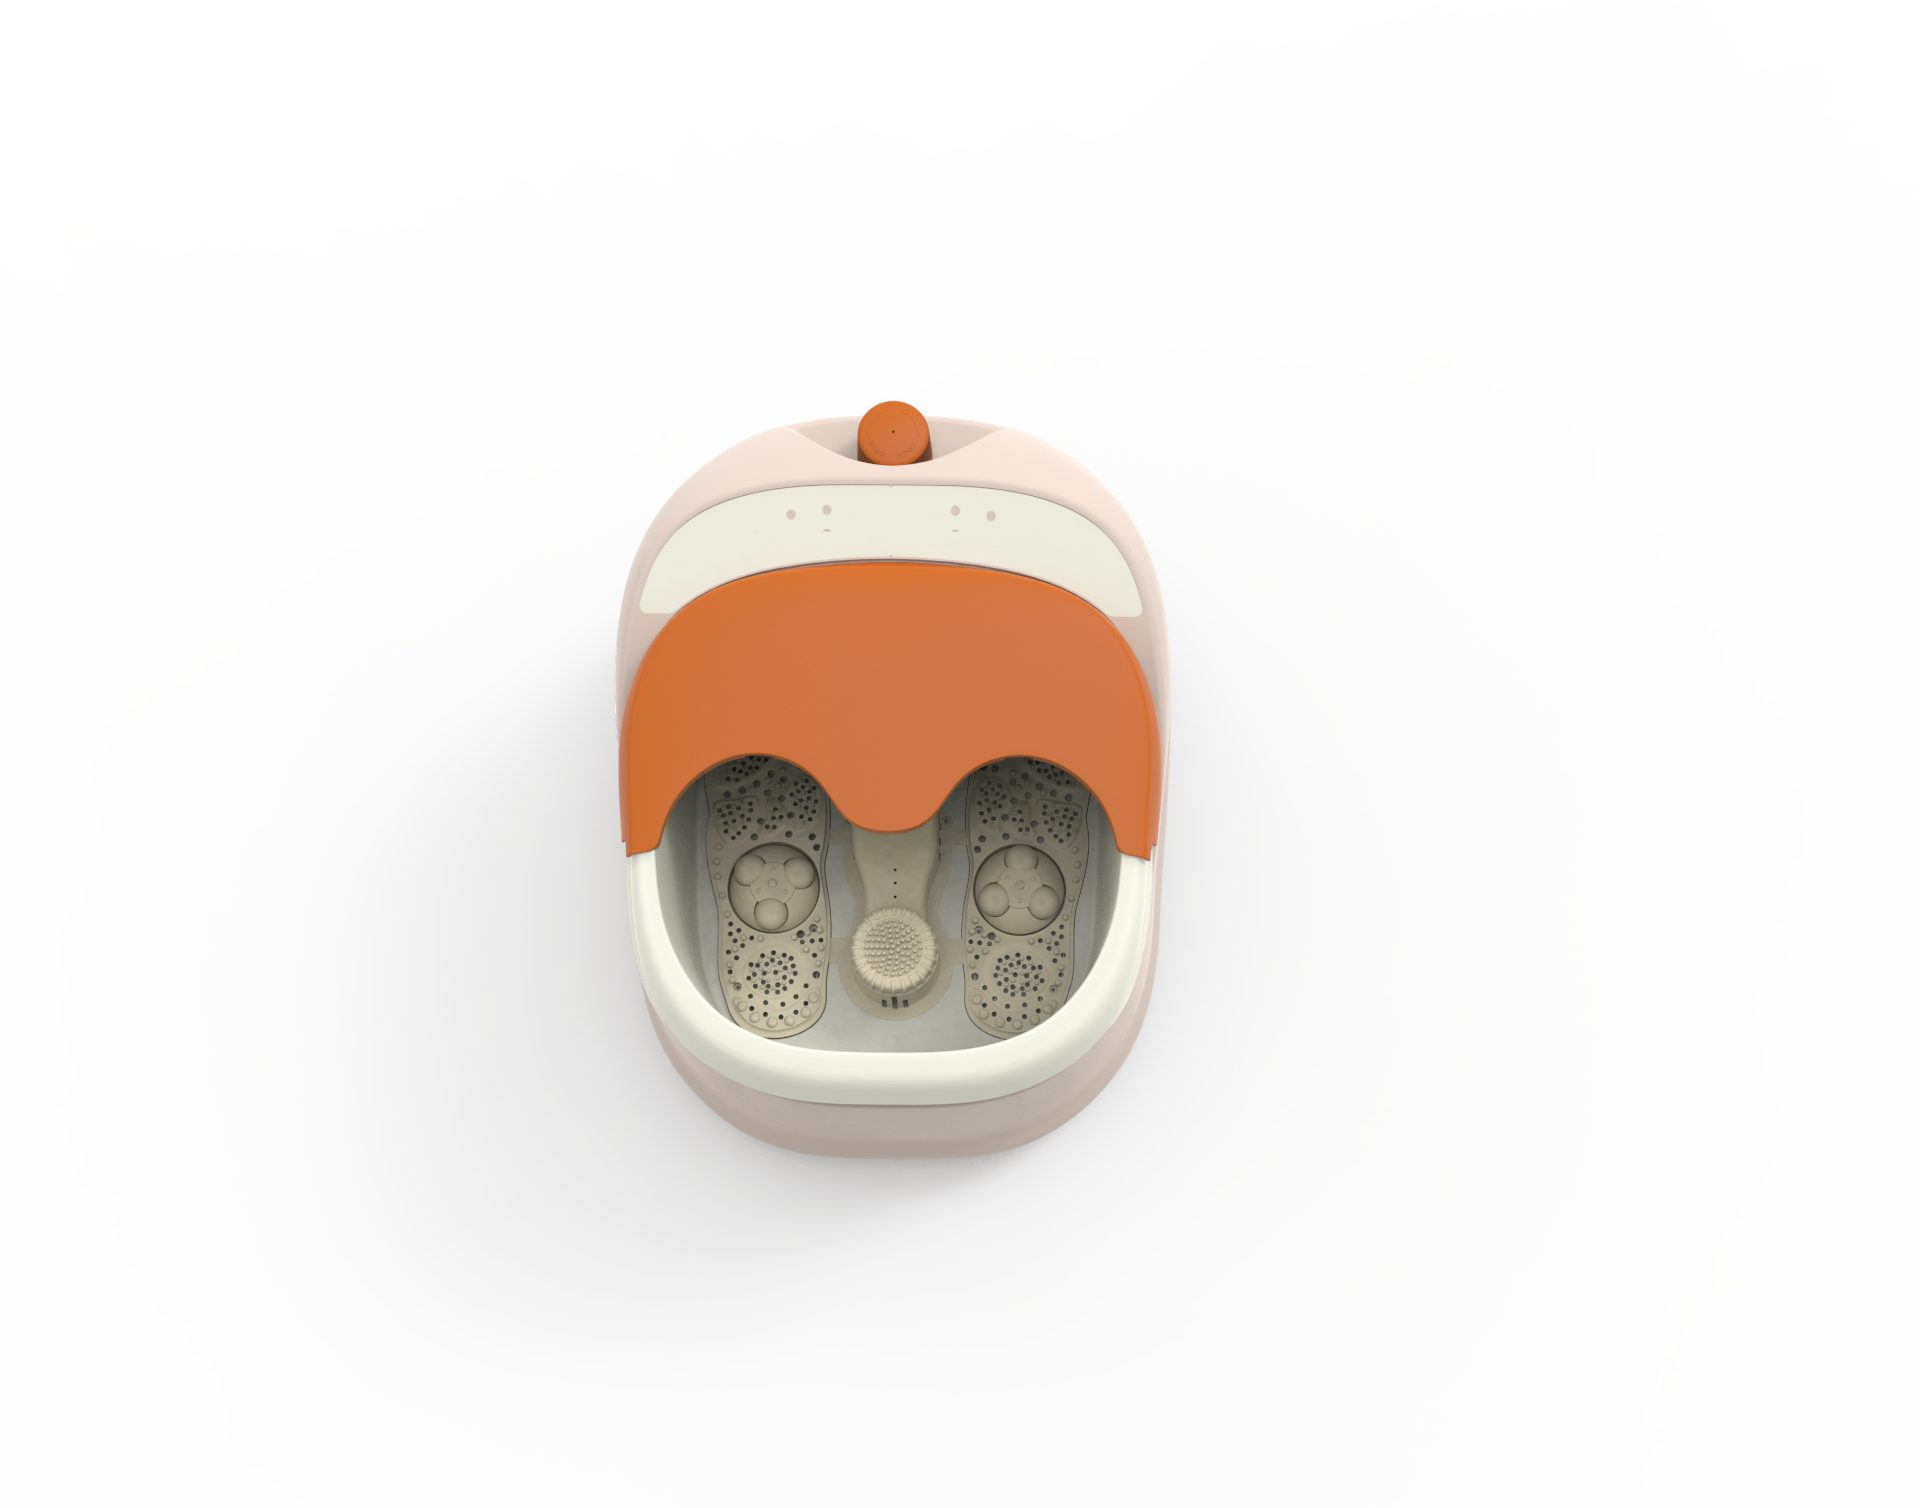
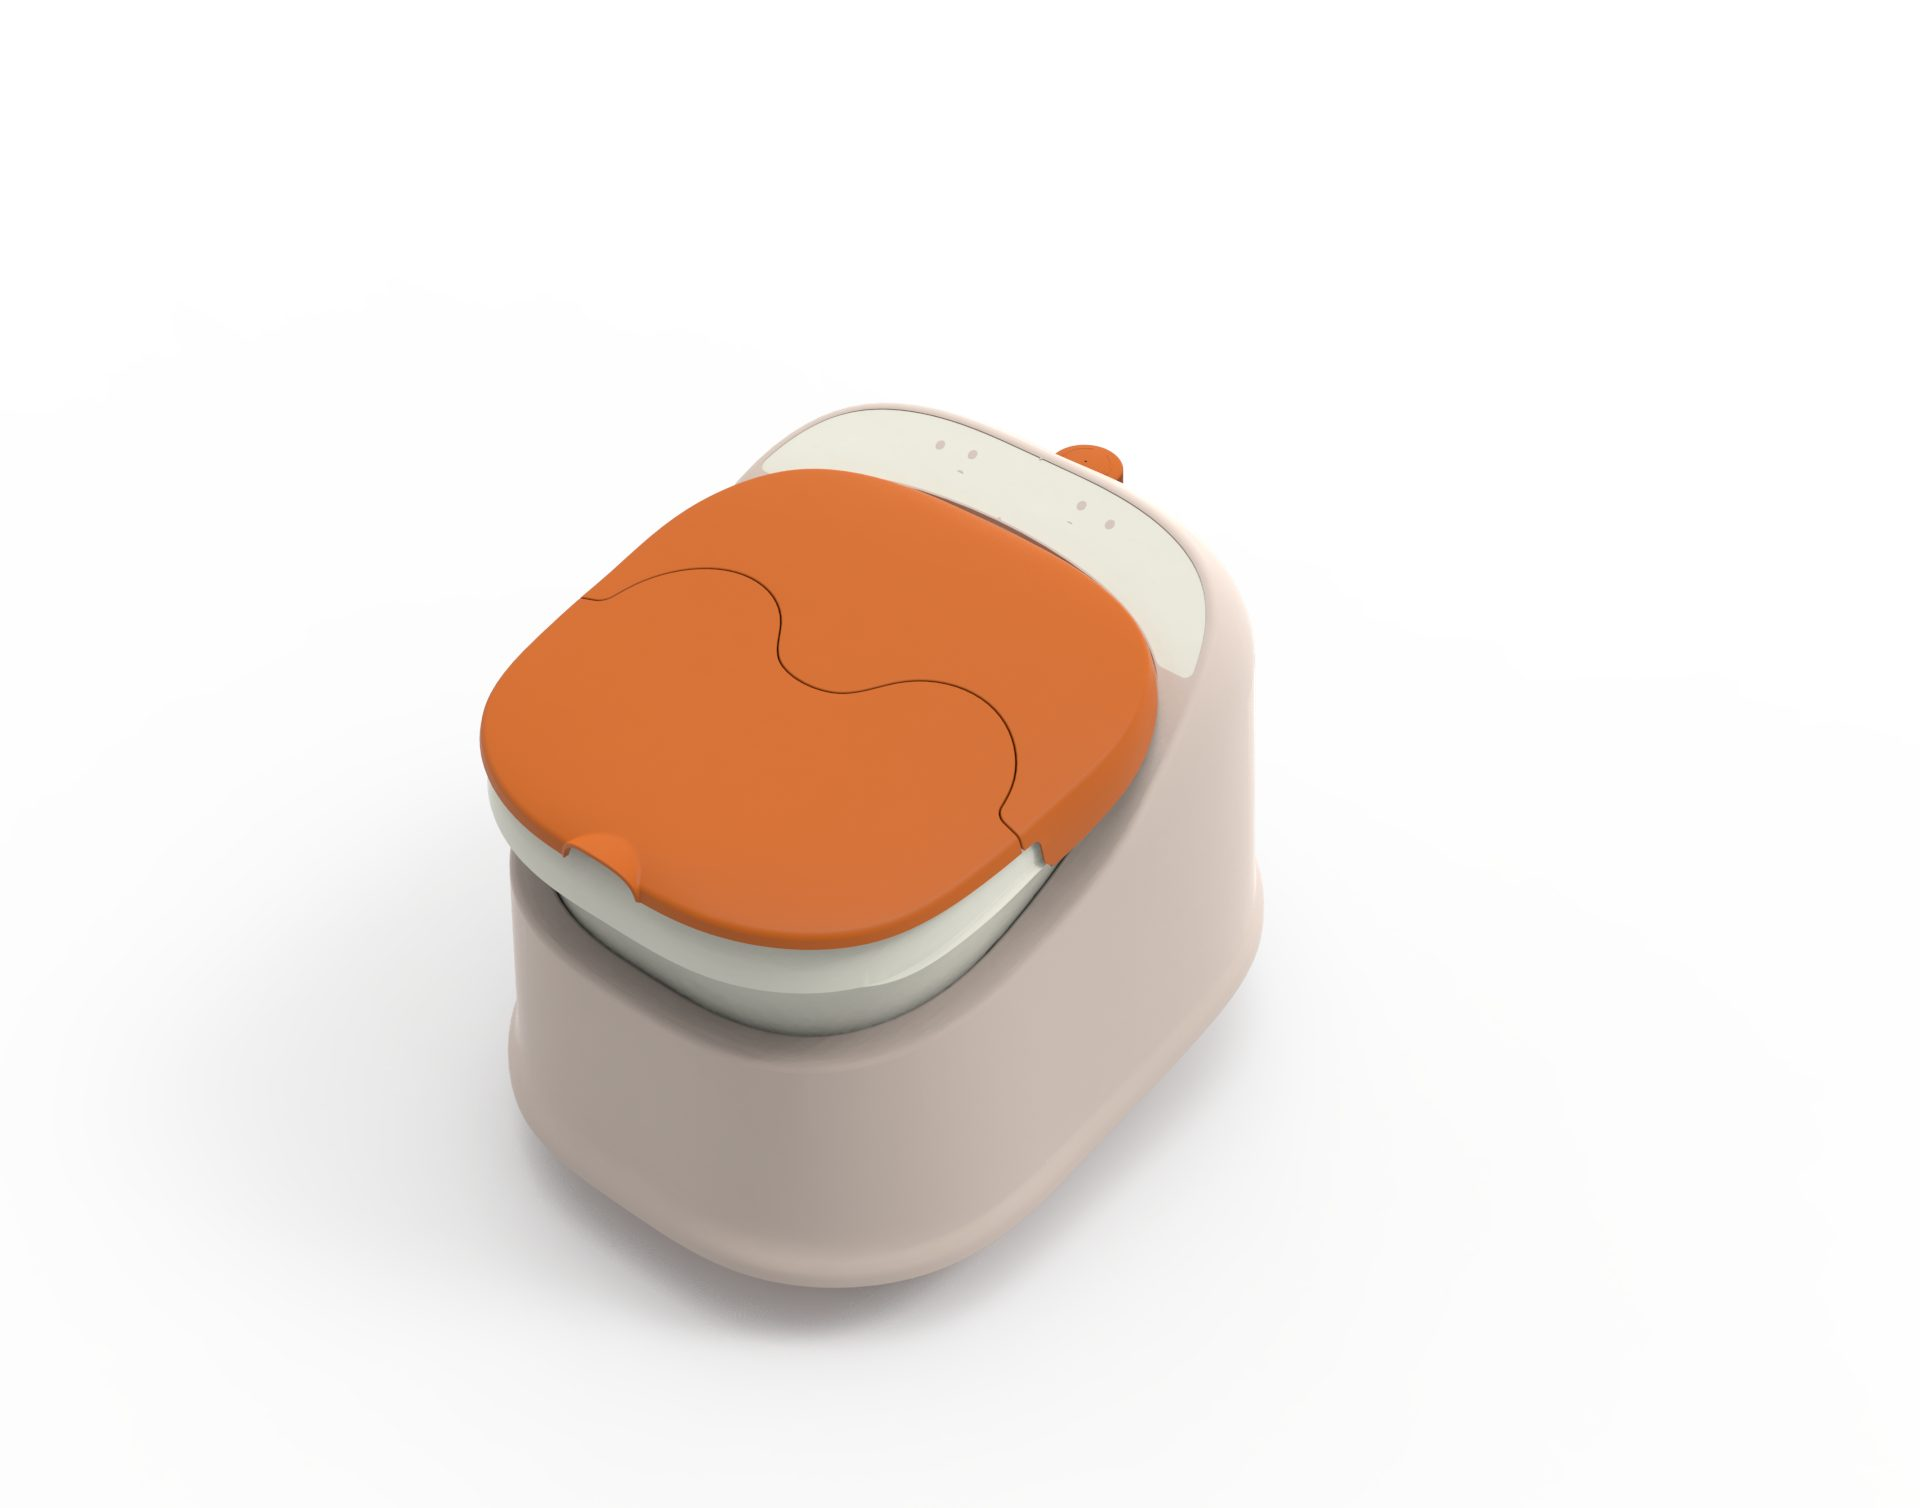
02 D 区左图换为闭合盖俯视渲染（洗脚桶.465.png 白底），alt 同步

Changed region(s): [[0.25, 0.2493, 0.6562, 0.9038]]

diff --git a/index.html b/index.html
@@ -455,7 +455,7 @@
         <p class="case-block-desc">配色聚焦一套主色——暖橙×米白（活力家用）：暖橙定义可动的盖体与交互件，米白一体包覆整机主体，深棕只落于底部脚轮，整体亲和、适配居家环境。</p>
         <div class="grid grid-2">
           <figure class="ph" data-lightbox data-caption="CMF 配色 · 暖橙×米白">
-            <img src="assets/products/footbath-cmf1-main.jpg" alt="配色1暖橙米白俯视开盖" loading="lazy">
+            <img src="assets/products/footbath-cmf1-main.jpg" alt="配色1暖橙米白俯视" loading="lazy">
             <figcaption>配色 · 暖橙×米白（主推）</figcaption>
           </figure>
           <figure class="ph" data-lightbox data-caption="CMF 配色 · 整机配色比例">
